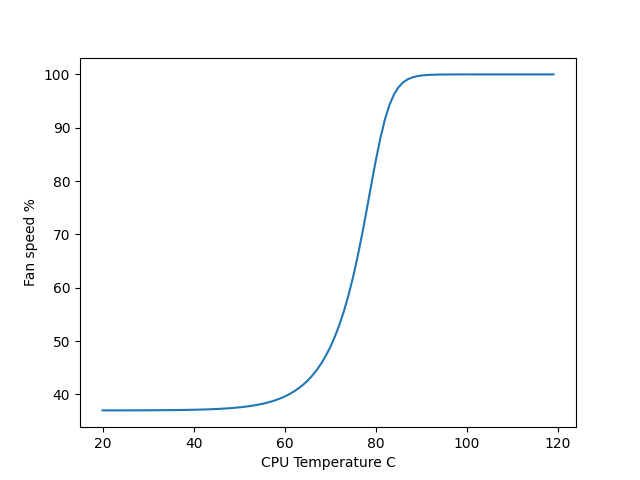
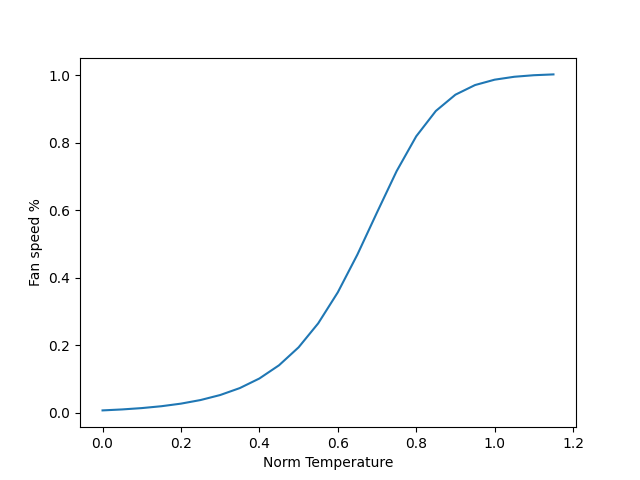
Update fan curve to work on 0-1 so I can pass it a normalized CPU or GPU temperature within their respective ranges. Use the largest normalized value.

diff --git a/fanspeed.py b/fanspeed.py
@@ -3,6 +3,7 @@ import time
 import json
 import sched
 import math
+import numpy as np
 
 UPPER_CPU_TEMP = 80.0
 LOWER_CPU_TEMP = 50.0
@@ -13,16 +14,18 @@ LOWER_GPU_TEMP = 50.0
 FULL_FAN_SPEED = 100
 IDLE_FAN_SPEED = 37
 
-def curve(temperature):
+def curve(norm_temp):
     # Generalised logistic function
     # Slowly ramp fan speed as lower temperature is crossed but quickly increase after
-    A = IDLE_FAN_SPEED
-    K = FULL_FAN_SPEED
+    A = 0
+    K = 1.005
     C = 1
-    Q = 1.65
-    B = 0.5
-    v = 3.3
-    fan_speed = A + ((K-A) / (C+Q * math.exp(-B * temperature + 40) ) ** (1 / v))
+    Q = 1
+    B = 13
+    v = 1.97
+    F = 9.7
+    G = 0
+    fan_speed = A + ((K-A) / (C+Q * math.exp(-B * norm_temp + F) ) ** (1 / v)) + G
     return fan_speed
 
 
@@ -56,44 +59,46 @@ def get_cpu_temp_json():
     p = subprocess.run(cpu_temp_check_cmd.split(" "), check=True, capture_output=True)
     temps_json = json.loads(p.stdout.decode("utf-8"))
     cpu_temp = int(temps_json["coretemp-isa-0000"]["Package id 0"]["temp1_input"])
-    return cpu_temp
+    cpu_norm = norm(cpu_temp, LOWER_CPU_TEMP, UPPER_CPU_TEMP)
+    return (cpu_temp, cpu_norm)
 
 def get_gpu_temp():
     gpu_temp_check_cmd = "nvidia-smi --query-gpu=temperature.gpu --format=csv,noheader"
     p = subprocess.run(gpu_temp_check_cmd.split(" "), check=True, capture_output=True)
     gpu_temp = int(p.stdout.decode("utf-8"))
-    return gpu_temp
+    gpu_norm = norm(gpu_temp, LOWER_GPU_TEMP, UPPER_GPU_TEMP)
+
+    return (gpu_temp, gpu_norm)
 
 def set_fans(scheduler):
     scheduler.enter(1, 1, set_fans, (scheduler,))
 
-    # cpu_temp_norm = get_cpu_temp()
-    cpu_temp = get_cpu_temp_json()
-    # cpu_temp_norm = norm(cpu_temp, LOWER_CPU_TEMP, UPPER_CPU_TEMP)
-    gpu_temp = get_gpu_temp()
-    # gpu_temp_norm = norm(gpu_temp, LOWER_GPU_TEMP, UPPER_GPU_TEMP)
+    cpu_temp, cpu_norm = get_cpu_temp_json()
+    gpu_temp, gpu_norm = get_gpu_temp()
 
-    speed_setting = int(curve(cpu_temp))
-    
-    # norm_temp = max(cpu_temp_norm, gpu_temp_norm)
-    # speed_setting = int(norm_temp * (FULL_FAN_SPEED - IDLE_FAN_SPEED) + IDLE_FAN_SPEED)
+    max_norm = max(cpu_norm, gpu_norm)
+    norm_fan = curve(max_norm)
+    denorm_fan = int(norm_fan * (FULL_FAN_SPEED - IDLE_FAN_SPEED) + IDLE_FAN_SPEED)
 
     for group_idx in range(0, 2):
-        fan_speed_set_cmd = f"ipmitool raw 0x30 0x70 0x66 0x01 {hex(group_idx)} {hex(speed_setting)}"
+        fan_speed_set_cmd = f"ipmitool raw 0x30 0x70 0x66 0x01 {hex(group_idx)} {hex(denorm_fan)}"
         p = subprocess.run(fan_speed_set_cmd.split(" "), check=True, capture_output=True)
-    print(f"CPU: {cpu_temp}C, GPU: {gpu_temp}C, Fan speed: {speed_setting}%")
+    print(f"CPU: {cpu_temp}C, GPU: {gpu_temp}C, Fan speed: {denorm_fan}%")
 
 def main():
 
     # import matplotlib.pyplot as plt
-    # plt.plot([i for i in range(20, 120, 1)], [int(curve(i)) for i in range(20, 120, 1)])
+    # plt.plot([i for i in np.arange(0, 1.2, 0.05)], [curve(i) for i in np.arange(0, 1.2, 0.05)])
     # plt.ylabel("Fan speed %")
-    # plt.xlabel("CPU Temperature C")
+    # plt.xlabel("Norm Temperature")
     # plt.show()
     # return
 
-    # for i in range(20, 90, 1):
-    #     print(f"Temp: {i}, fans: {round(curve(i))}")
+    # for i in np.arange(20, 100, 5):
+    #     norm_temp = norm(i, LOWER_CPU_TEMP, UPPER_CPU_TEMP)
+    #     norm_fan = curve(norm_temp)
+    #     denorm_fan = int(norm_fan * (FULL_FAN_SPEED - IDLE_FAN_SPEED) + IDLE_FAN_SPEED)
+    #     print(f"Temp: {i}, fans: {denorm_fan}")
     # return
 
     my_scheduler = sched.scheduler(time.time, time.sleep)
